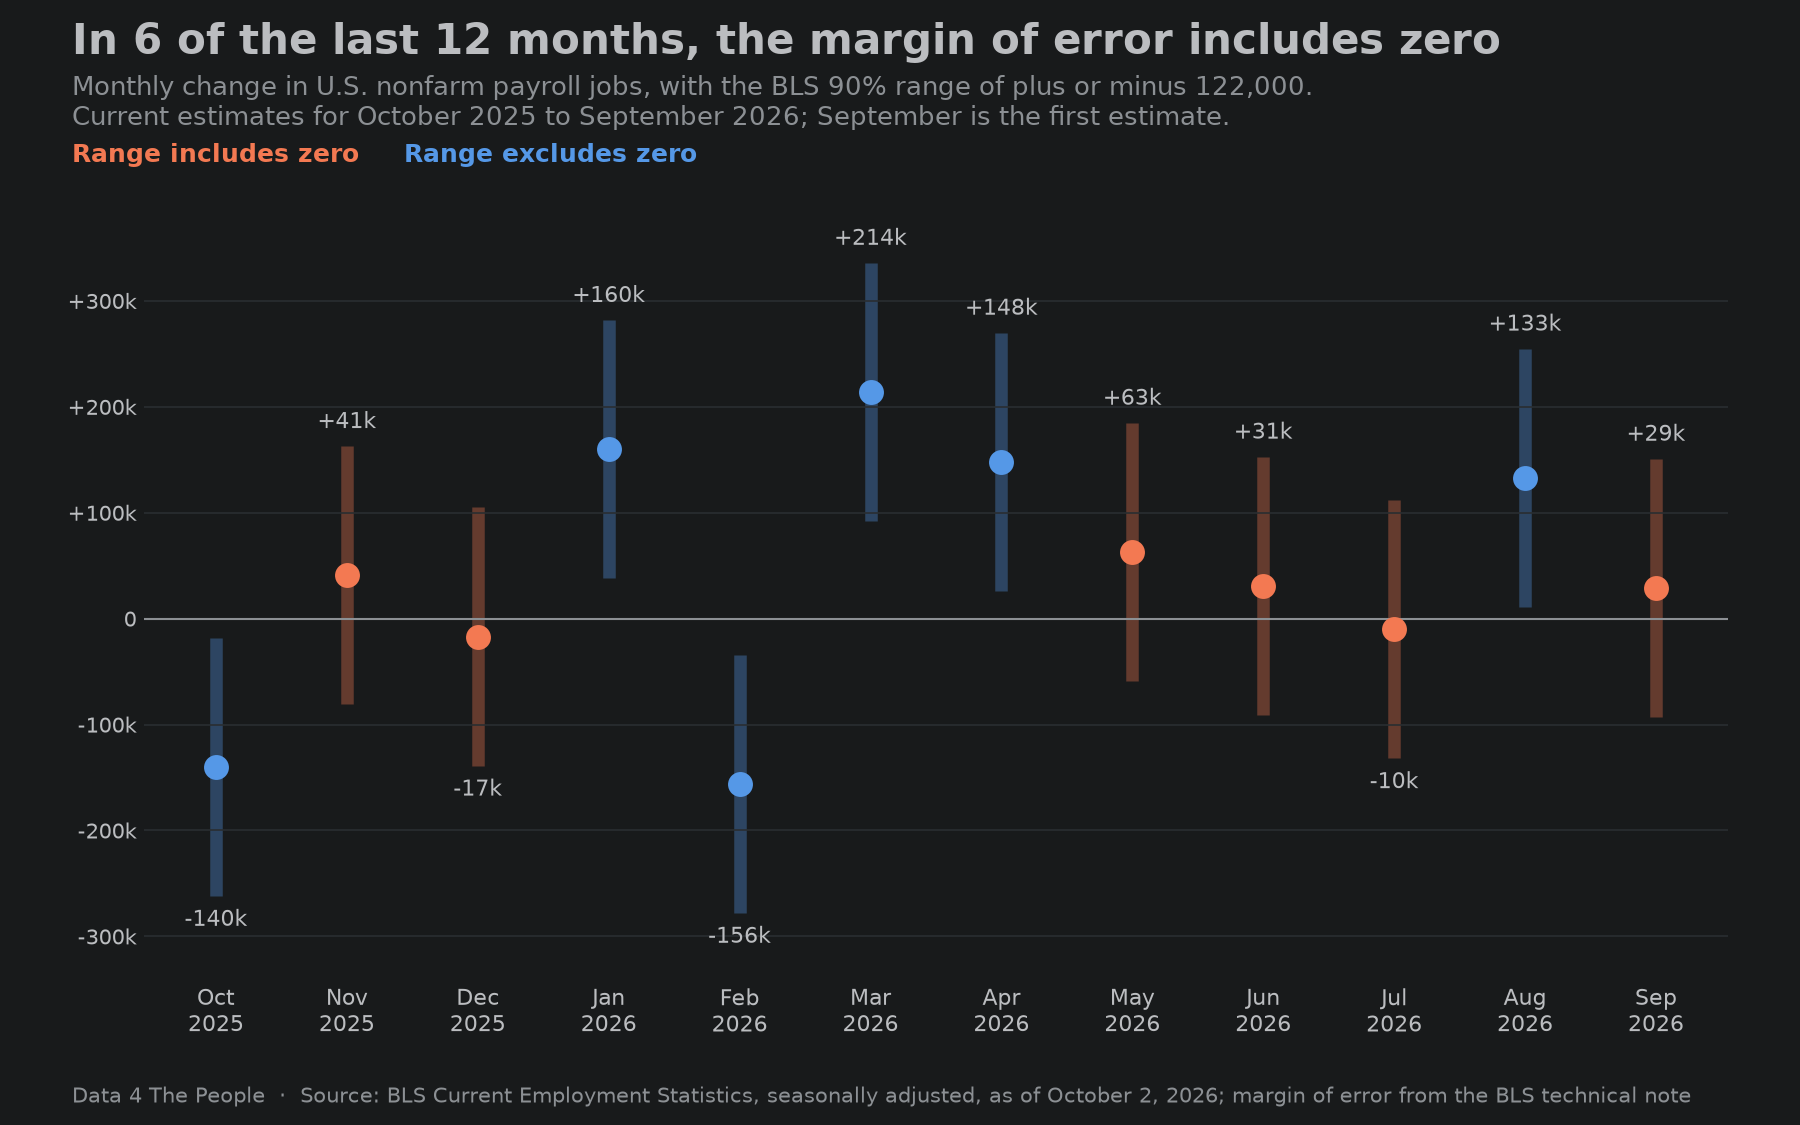
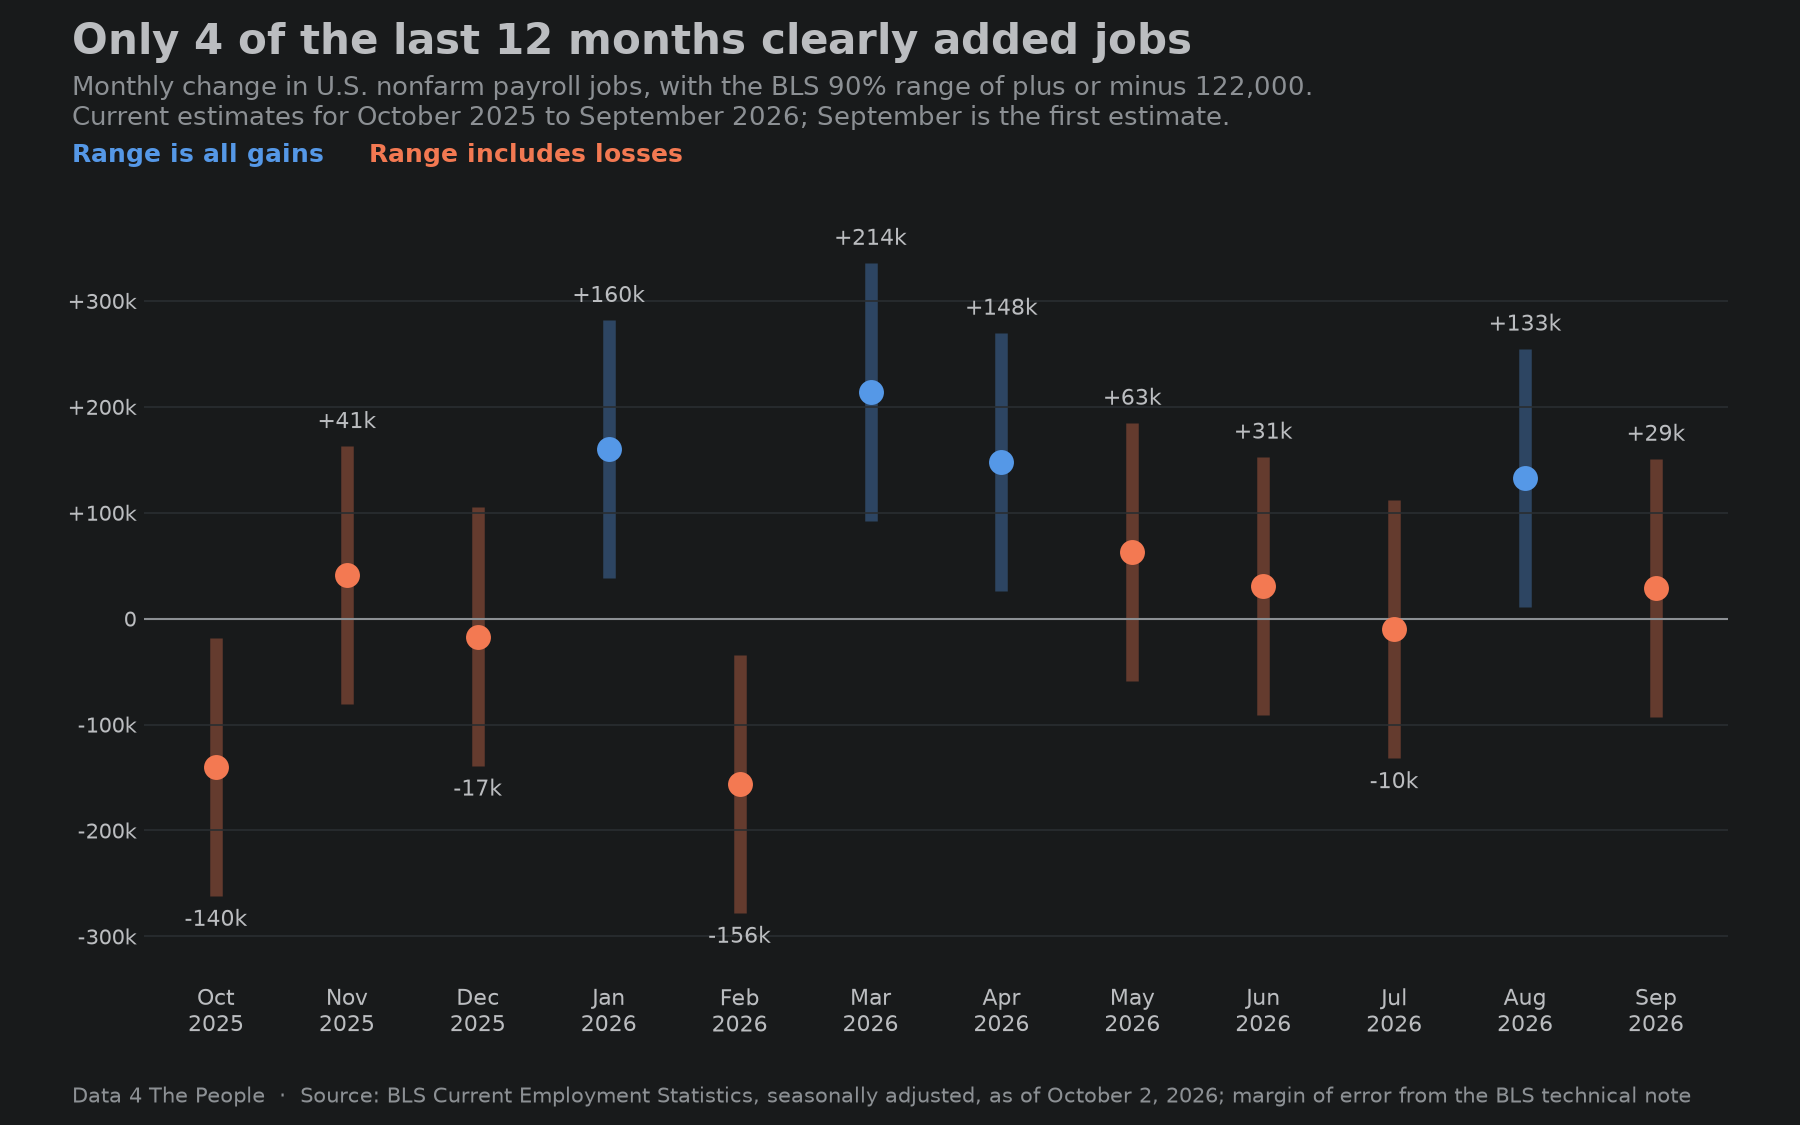
september-2026-jobs-report: chart 1 marks any range with losses in orange

diff --git a/tools/september_2026_charts.py b/tools/september_2026_charts.py
@@ -91,16 +91,17 @@ def c1(w):
     t = pd.DataFrame({"month": s.index.strftime("%Y-%m"), "change": s.values,
                       "low": s.values - CI, "high": s.values + CI})
     t["range_includes_zero"] = (t.low < 0) & (t.high > 0)
+    t["range_all_gains"] = t.low > 0
     t.to_csv(NUM / "01-margin-of-error.csv", index=False)
-    n0 = int(t.range_includes_zero.sum())
-    f, top = fig(f"In {n0} of the last 12 months, the margin of error includes zero",
+    n_gain = int(t.range_all_gains.sum())
+    f, top = fig(f"Only {n_gain} of the last 12 months clearly added jobs",
                  "Monthly change in U.S. nonfarm payroll jobs, with the BLS 90% range of plus or minus 122,000.\n"
                  "Current estimates for October 2025 to September 2026; September is the first estimate.",
-                 legend=[("Range includes zero", CORAL), ("Range excludes zero", BLUE)])
+                 legend=[("Range is all gains", BLUE), ("Range includes losses", CORAL)])
     ax = f.add_axes([0.08, 0.13, 0.88, top - 0.13])
     x = np.arange(len(t))
     for i, r in t.iterrows():
-        c = CORAL if r.range_includes_zero else BLUE
+        c = BLUE if r.range_all_gains else CORAL
         ax.vlines(i, r.low, r.high, color=c, lw=6, alpha=0.35, zorder=1)
         ax.scatter(i, r.change, s=120, color=c, zorder=3)
         if r.change >= 0:

diff --git a/posts/september-2026-jobs-report/POST.md b/posts/september-2026-jobs-report/POST.md
@@ -20,7 +20,7 @@ dividers: false
 
 Last Friday, the Bureau of Labor Statistics released data showing the U.S. added 29,000 jobs in September. They also released footnotes telling us that if they were to replicate this survey 10 times, about nine of them would land somewhere between -93,000 and 151,000, and about one would land outside that band.
 
-![Dot chart of the monthly change in U.S. nonfarm payroll jobs from October 2025 to September 2026, each with a bar showing the BLS 90% range of plus or minus 122,000. In six months, November, December, May, June, July and September, the range crosses zero. September shows +29,000, with a range from -93,000 to +151,000.](images/01-margin-of-error.png)
+![Dot chart of the monthly change in U.S. nonfarm payroll jobs from October 2025 to September 2026, each with a bar showing the BLS 90% range of plus or minus 122,000. Only four months, January, March, April and August, have a range that is all gains. In October and February the whole range is losses, and in the other six it crosses zero. September shows +29,000, with a range from -93,000 to +151,000.](images/01-margin-of-error.png)
 *Source: BLS Current Employment Statistics, seasonally adjusted, as of October 2, 2026. The plus or minus 122,000 range is from the BLS technical note.*
 
 So, why do so many people care about this one number? They shouldn’t. It says very little about how many jobs the U.S. actually added in September. But people care, because enough other people care. We’ve said this many times, but if enough people believe something is true, then others will act like it is true, even if they know it is not.
